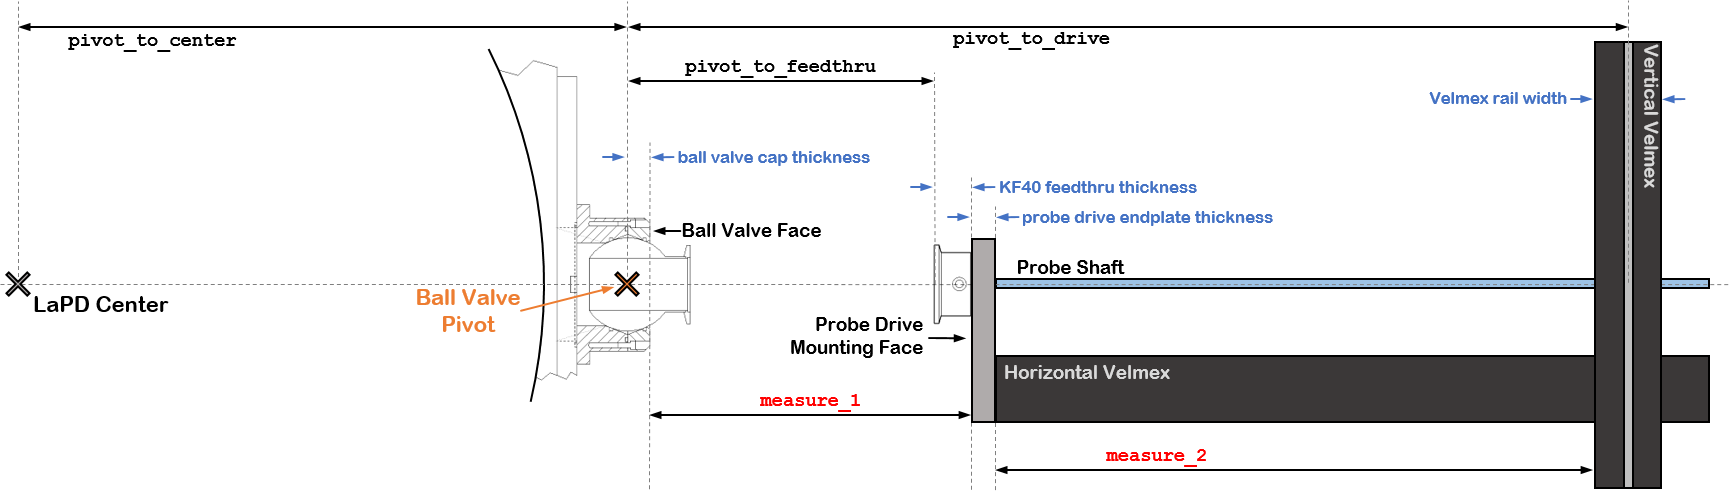
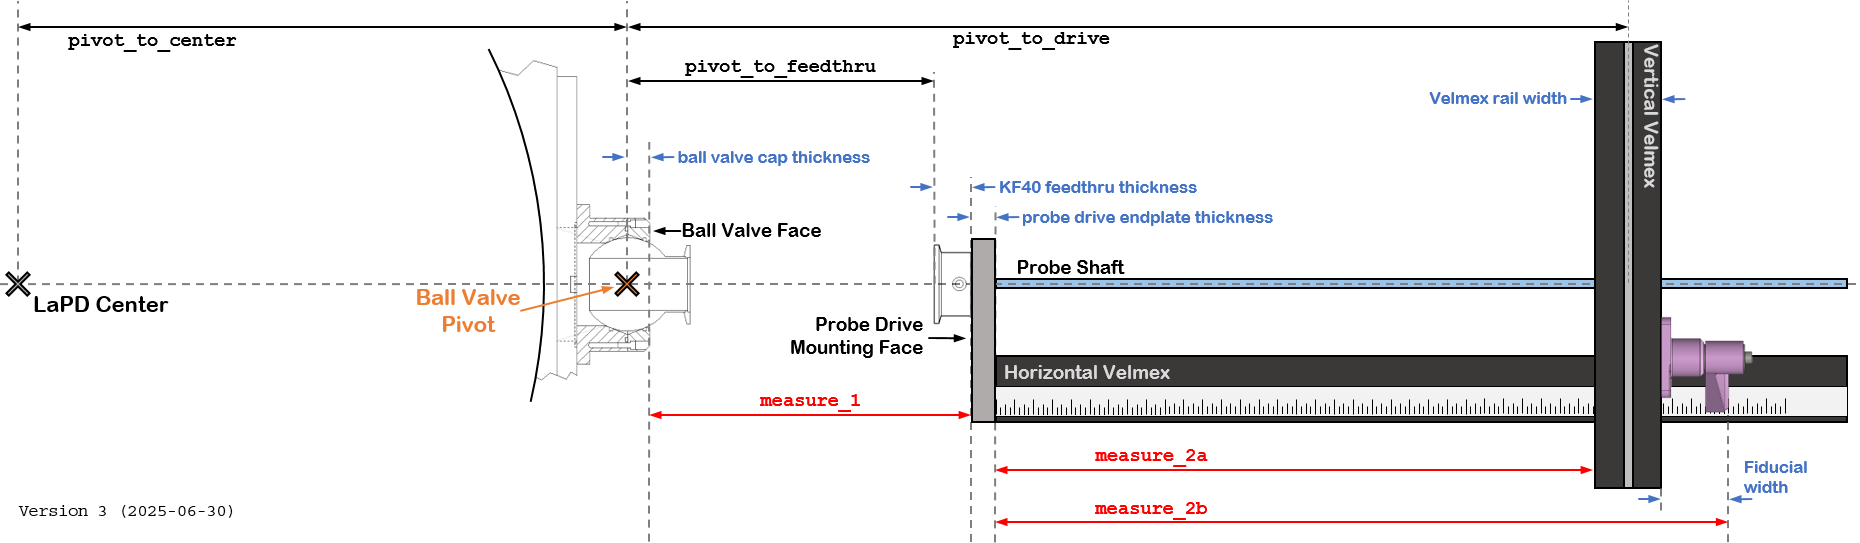
Update velmex xy calculator GUI for new fiducial indicator (#129)
* update diagram

* add attribute fiducial_width

* add label widget fiducial_width_label

* rename items with measure_2 -> measure_2a

* add property measure_2

* remove property measure_2 and replace uses with measure_2a

* create methods calc_measure_2a_to_measure_2b() and calc_measure_2b_to_measure_2a()

* import typing Optional

* move all attribute definitions to before widget definitions

* add widget measure_2b_label

* add style for the fiducial_width_label

* update image

* force window to size to image to prevent distortion of fonts

* reposition widgets

* rename calc_measure_2a_to_measure_2b() -> convert_measure_2a_to_measure_2b(), calc_measure_2b_to_measure_2a() -> convert_measure_2b_to_measure_2a()

* create method _update_measure_2b_label(), and add to _update_all_labels()

* update measure_2b is when measure_2a is changed

* create slot and connect _validate_measure_2b()

* update _validate_measure_2a to not allow zero or negative values

* avoid updating labes twice in _validate_measure_1()

* update StyleButton so the QSS string includes the instantiated objectName

* fix object_name specifier string for StyleButton

* implement architecture for storing default measure values

* implement a reset button for measure values

* when resetting to defaults also recalculate parameters

* add radio buttons for toggling between measure_2a and mesure_2b

* remove update_style_sheet() for reset_btn (now using default StyleButton style)

Changed region(s): [[0.0, 0.0305, 0.9983, 1.0], [0.0, 0.4888, 0.0936, 0.6415], [0.0, 0.9165, 0.1248, 0.947]]

diff --git a/bapsf_motion/gui/lapd_xy_transform_calculator.py b/bapsf_motion/gui/lapd_xy_transform_calculator.py
@@ -15,8 +15,12 @@ from PySide6.QtWidgets import (
     QLabel,
     QFrame,
     QLineEdit,
+    QRadioButton,
 )
-from typing import Union
+from typing import Union, Optional
+
+from bapsf_motion.gui.widgets import StyleButton
+
 
 _HERE = Path(__file__).parent
 _IMAGES_PATH = (_HERE / "_images").resolve()
@@ -24,6 +28,11 @@ _IMAGES_PATH = (_HERE / "_images").resolve()
 
 class LaPDXYTransformCalculator(QMainWindow):
     closing = Signal()
+
+    _defaults = {  # all values in cm
+        "measure_1": 54.2,
+        "measure_2a": 58.0,
+    }
 
     def __init__(self):
         super().__init__()
@@ -40,7 +49,8 @@ class LaPDXYTransformCalculator(QMainWindow):
         
         QLineEdit { border: 2px solid black; border-radius: 5px }
         QLineEdit#measure_1 { border: 2px solid rgb(255, 0, 0) }
-        QLineEdit#measure_2 { border: 2px solid rgb(255, 0, 0) }
+        QLineEdit#measure_2a { border: 2px solid rgb(255, 0, 0) }
+        QLineEdit#measure_2b { border: 2px solid rgb(255, 0, 0) }
         
         QLineEdit#ball_valve_cap_thickness {
             border: 2px solid rgb(68, 114, 196);
@@ -58,16 +68,21 @@ class LaPDXYTransformCalculator(QMainWindow):
             border: 2px solid rgb(68, 114, 196);
             color: rgb(68, 114, 196);
         }
+        QLineEdit#fiducial_width {
+            border: 2px solid rgb(68, 114, 196);
+            color: rgb(68, 114, 196);
+        }
         """
         self.setStyleSheet(_stylesheet)
 
-        self._window_margin = 12
-        self._define_main_window()
         self.setCentralWidget(QWidget(parent=self))
 
         self._image_file_path = (_IMAGES_PATH / "LaPDXYTransform_diagram.png").resolve()
         pixmap = QPixmap(f"{self._image_file_path}")
-        self._image = pixmap.scaledToWidth(self.width() - 2 * self._window_margin)
+        self._image = pixmap
+
+        self._window_margin = 12
+        self._define_main_window()
 
         self.image_label = QLabel(parent=self)
         self.image_label.setPixmap(self._image)
@@ -78,69 +93,89 @@ class LaPDXYTransformCalculator(QMainWindow):
         self.image_frame.setFixedWidth(self.width() - 2 * self._window_margin)
         self.image_frame.setFixedHeight(self.height() - 2 * self._window_margin)
 
-        self.ball_valve_cap_thickness = 0.81 * 2.54  # cm
-        self.probe_drive_endplate_thickness = 0.75 * 2.54  # cm
-        self.probe_kf40_thickness = 2.54  # cm
-        self.velmex_rail_width = 3.4 * 2.54  # cm
+        # all values in cm
+        self.ball_valve_cap_thickness = 0.81 * 2.54
+        self.probe_drive_endplate_thickness = 0.75 * 2.54
+        self.probe_kf40_thickness = 2.54
+        self.velmex_rail_width = 3.4 * 2.54
+        self.fiducial_width = 1.775 * 2.54
 
+        # constants need to be defined first
+        self.measure_1 = self._defaults["measure_1"]
+        self.measure_2a = self._defaults["measure_2a"]
+        self.measure_2b = self.convert_measure_2a_to_measure_2b()
+
+        # mesures and constants need to be defined first
         self.pivot_to_center = 58.771
+        self.pivot_to_feedthru = self.calc_pivot_to_feedthru()
+        self.pivot_to_drive = self.calc_pivot_to_drive()
+
         _txt = QLineEdit(f"{self.pivot_to_center:.3f} cm", parent=self)
         _txt.setReadOnly(True)
         _txt.setAlignment(Qt.AlignmentFlag.AlignCenter)
         font = _txt.font()
         font.setPointSize(14)
         _txt.setFont(font)
-        p = self.geometry().topLeft() + QPoint(265, 48)
+        p = self.geometry().topLeft() + QPoint(260, 43)
         _txt.move(p)
         _txt.setFixedWidth(120)
         self.pivot_to_center_label = _txt
 
-        self.measure_1 = 54.2
         _txt = QLineEdit(f"{self.measure_1:.2f} cm", parent=self)
         _txt.setReadOnly(False)
         _txt.setAlignment(Qt.AlignmentFlag.AlignCenter)
         font = _txt.font()
         font.setPointSize(14)
         _txt.setFont(font)
-        p = self.geometry().topLeft() + QPoint(778, 440)
+        p = self.geometry().topLeft() + QPoint(763, 432)
         _txt.move(p)
         _txt.setFixedWidth(120)
         _txt.setObjectName("measure_1")
         self.measure_1_label = _txt
 
-        self.measure_2 = 58.0
-        _txt = QLineEdit(f"{self.measure_2:.2f} cm", parent=self)
+        _txt = QLineEdit(f"{self.measure_2a:.2f} cm", parent=self)
         _txt.setReadOnly(False)
         _txt.setAlignment(Qt.AlignmentFlag.AlignCenter)
         font = _txt.font()
         font.setPointSize(14)
         _txt.setFont(font)
-        p = self.geometry().topLeft() + QPoint(1250, 455)
+        p = self.geometry().topLeft() + QPoint(1228, 447)
         _txt.move(p)
         _txt.setFixedWidth(120)
-        _txt.setObjectName("measure_2")
-        self.measure_2_label = _txt
+        _txt.setObjectName("measure_2a")
+        self.measure_2a_label = _txt
 
-        self.pivot_to_feedthru = self.calc_pivot_to_feedthru()
+        _txt = QLineEdit(f"{self.measure_2b:.2f} cm", parent=self)
+        _txt.setReadOnly(False)
+        _txt.setAlignment(Qt.AlignmentFlag.AlignCenter)
+        font = _txt.font()
+        font.setPointSize(14)
+        _txt.setFont(font)
+        p = self.geometry().topLeft() + QPoint(1228, 499)
+        _txt.move(p)
+        _txt.setFixedWidth(120)
+        _txt.setObjectName("measure_2b")
+        self.measure_2b_label = _txt
+        self.measure_2b_label.setEnabled(False)
+
         _txt = QLineEdit(f"{self.pivot_to_feedthru:.3f} cm", parent=self)
         _txt.setReadOnly(True)
         _txt.setAlignment(Qt.AlignmentFlag.AlignCenter)
         font = _txt.font()
         font.setPointSize(14)
         _txt.setFont(font)
-        p = self.geometry().topLeft() + QPoint(750, 100)
+        p = self.geometry().topLeft() + QPoint(736, 98)
         _txt.move(p)
         _txt.setFixedWidth(120)
         self.pivot_to_feedthru_label = _txt
 
-        self.pivot_to_drive = self.calc_pivot_to_drive()
         _txt = QLineEdit(f"{self.pivot_to_drive:.3f} cm", parent=self)
         _txt.setReadOnly(True)
         _txt.setAlignment(Qt.AlignmentFlag.AlignCenter)
         font = _txt.font()
         font.setPointSize(14)
         _txt.setFont(font)
-        p = self.geometry().topLeft() + QPoint(1154, 48)
+        p = self.geometry().topLeft() + QPoint(1134, 43)
         _txt.move(p)
         _txt.setFixedWidth(120)
         self.pivot_to_drive_label = _txt
@@ -152,7 +187,7 @@ class LaPDXYTransformCalculator(QMainWindow):
         font.setPointSize(12)
         font.setBold(True)
         _txt.setFont(font)
-        p = self.geometry().topLeft() + QPoint(702, 184)
+        p = self.geometry().topLeft() + QPoint(691, 181)
         _txt.move(p)
         _txt.setFixedWidth(86)
         _txt.setObjectName("ball_valve_cap_thickness")
@@ -165,7 +200,7 @@ class LaPDXYTransformCalculator(QMainWindow):
         font.setPointSize(12)
         font.setBold(True)
         _txt.setFont(font)
-        p = self.geometry().topLeft() + QPoint(1235, 181)
+        p = self.geometry().topLeft() + QPoint(1218, 177)
         _txt.move(p)
         _txt.setFixedWidth(86)
         _txt.setObjectName("probe_kf40_thickness")
@@ -178,7 +213,7 @@ class LaPDXYTransformCalculator(QMainWindow):
         font.setPointSize(12)
         font.setBold(True)
         _txt.setFont(font)
-        p = self.geometry().topLeft() + QPoint(1313, 226)
+        p = self.geometry().topLeft() + QPoint(1294, 220)
         _txt.move(p)
         _txt.setFixedWidth(86)
         _txt.setObjectName("probe_drive_endplate_thickness")
@@ -191,11 +226,43 @@ class LaPDXYTransformCalculator(QMainWindow):
         font.setPointSize(12)
         font.setBold(True)
         _txt.setFont(font)
-        p = self.geometry().topLeft() + QPoint(1522, 124)
+        p = self.geometry().topLeft() + QPoint(1496, 121)
         _txt.move(p)
         _txt.setFixedWidth(86)
         _txt.setObjectName("velmex_rail_width")
         self.velmex_rail_width_label = _txt
+
+        _txt = QLineEdit(f"{self.fiducial_width:.3f} cm", parent=self)
+        _txt.setReadOnly(True)
+        _txt.setAlignment(Qt.AlignmentFlag.AlignCenter)
+        font = _txt.font()
+        font.setPointSize(12)
+        font.setBold(True)
+        _txt.setFont(font)
+        p = self.geometry().topLeft() + QPoint(1774, 512)
+        _txt.move(p)
+        _txt.setFixedWidth(86)
+        _txt.setObjectName("fiducial_width")
+        self.fiducial_width_label = _txt
+
+        _btn = StyleButton("Reset to Defaults", parent=self)
+        _btn.setFixedWidth(200)
+        _btn.setFixedHeight(36)
+        _btn.setPointSize(14)
+        p = self.geometry().topLeft() + QPoint(32, 472)
+        _btn.move(p)
+        self.reset_btn = _btn
+
+        _btn = QRadioButton(parent=self)
+        p = self.measure_2a_label.pos() + QPoint(self.measure_2a_label.width() + 6, 0)
+        _btn.move(p)
+        _btn.setChecked(True)
+        self.measure_2a_btn = _btn
+
+        _btn = QRadioButton(parent=self)
+        p = self.measure_2b_label.pos() + QPoint(self.measure_2b_label.width() + 6, 0)
+        _btn.move(p)
+        self.measure_2b_btn = _btn
 
         layout = self._define_layout()
         self.centralWidget().setLayout(layout)
@@ -204,17 +271,21 @@ class LaPDXYTransformCalculator(QMainWindow):
 
     def _define_main_window(self):
         self.setWindowTitle("LaPD XY Transform Calculator")
-        height = 500
-        width = int(3.52 * height)
-        width += 2 * self._window_margin
-        height += 2 * self._window_margin
+        width = self._image.width() + 2 * self._window_margin
+        height = self._image.height() + 2 * self._window_margin
         self.resize(width, height)
         self.setFixedWidth(width)
         self.setFixedHeight(height)
 
     def _connect_signals(self):
         self.measure_1_label.editingFinished.connect(self._validate_measure_1)
-        self.measure_2_label.editingFinished.connect(self._validate_measure_2)
+        self.measure_2a_label.editingFinished.connect(self._validate_measure_2a)
+        self.measure_2b_label.editingFinished.connect(self._validate_measure_2b)
+
+        self.reset_btn.clicked.connect(self._reset_measure_values)
+
+        self.measure_2a_btn.toggled.connect(self._measure_2a_input_selected)
+        self.measure_2b_btn.toggled.connect(self._measure_2b_input_selected)
 
     def _define_layout(self):
         image_layout = QVBoxLayout()
@@ -229,6 +300,22 @@ class LaPDXYTransformCalculator(QMainWindow):
         layout.addStretch()
         return layout
 
+    def convert_measure_2a_to_measure_2b(
+        self, measure_2a: Optional[float] = None
+    ) -> float:
+        if measure_2a is None:
+            measure_2a = self.measure_2a
+
+        return measure_2a + self.velmex_rail_width + self.fiducial_width
+
+    def convert_measure_2b_to_measure_2a(
+        self, measure_2b: Optional[float] = None
+    ) -> float:
+        if measure_2b is None:
+            measure_2b = self.measure_2b
+
+        return measure_2b - self.velmex_rail_width - self.fiducial_width
+
     def calc_pivot_to_feedthru(self):
         return (
             self.ball_valve_cap_thickness
@@ -241,7 +328,7 @@ class LaPDXYTransformCalculator(QMainWindow):
             self.ball_valve_cap_thickness
             + self.measure_1
             + self.probe_drive_endplate_thickness
-            + self.measure_2
+            + self.measure_2a
             + 0.5 * self.velmex_rail_width
         )
 
@@ -251,9 +338,25 @@ class LaPDXYTransformCalculator(QMainWindow):
 
         self._update_all_labels()
 
+    def _measure_2a_input_selected(self):
+        self.measure_2a_label.setEnabled(True)
+        self.measure_2b_label.setEnabled(False)
+
+    def _measure_2b_input_selected(self):
+        self.measure_2a_label.setEnabled(False)
+        self.measure_2b_label.setEnabled(True)
+
+    def _reset_measure_values(self):
+        self.measure_1 = self._defaults["measure_1"]
+        self.measure_2a = self._defaults["measure_2a"]
+        self.measure_2b = self.convert_measure_2a_to_measure_2b()
+
+        self.recalculate_parameters()
+
     def _update_all_labels(self):
         self._update_measure_1_label()
-        self._update_measure_2_label()
+        self._update_measure_2a_label()
+        self._update_measure_2b_label()
         self._update_pivot_to_feedthru_label()
         self._update_pivot_to_drive_label()
 
@@ -269,9 +372,13 @@ class LaPDXYTransformCalculator(QMainWindow):
         _txt = f"{self.measure_1:.2f} cm"
         self.measure_1_label.setText(_txt)
 
-    def _update_measure_2_label(self):
-        _txt = f"{self.measure_2:.2f} cm"
-        self.measure_2_label.setText(_txt)
+    def _update_measure_2a_label(self):
+        _txt = f"{self.measure_2a:.2f} cm"
+        self.measure_2a_label.setText(_txt)
+
+    def _update_measure_2b_label(self):
+        _txt = f"{self.measure_2b:.2f} cm"
+        self.measure_2b_label.setText(_txt)
 
     @staticmethod
     def _validate_measure(text: str) -> Union[float, None]:
@@ -300,17 +407,43 @@ class LaPDXYTransformCalculator(QMainWindow):
         else:
             self.measure_1 = value
             self.recalculate_parameters()
+            return
 
         self._update_all_labels()
 
     @Slot()
-    def _validate_measure_2(self):
-        _txt = self.measure_2_label.text()
+    def _validate_measure_2a(self):
+        _txt = self.measure_2a_label.text()
         value = self._validate_measure(_txt)
 
-        if value is not None:
-            self.measure_2 = value
+        if value is None:
+            pass
+        elif value <= 0:
+            # not physically possible
+            pass
+        else:
+            self.measure_2a = value
+            self.measure_2b = self.convert_measure_2a_to_measure_2b()
             self.recalculate_parameters()
+            return
+
+        self._update_all_labels()
+
+    @Slot()
+    def _validate_measure_2b(self):
+        _txt = self.measure_2b_label.text()
+        value = self._validate_measure(_txt)
+
+        if value is None:
+            pass
+        elif value <= self.velmex_rail_width + self.fiducial_width:
+            # not physically possible
+            pass
+        else:
+            self.measure_2b = value
+            self.measure_2a = self.convert_measure_2b_to_measure_2a()
+            self.recalculate_parameters()
+            return
 
         self._update_all_labels()
 
